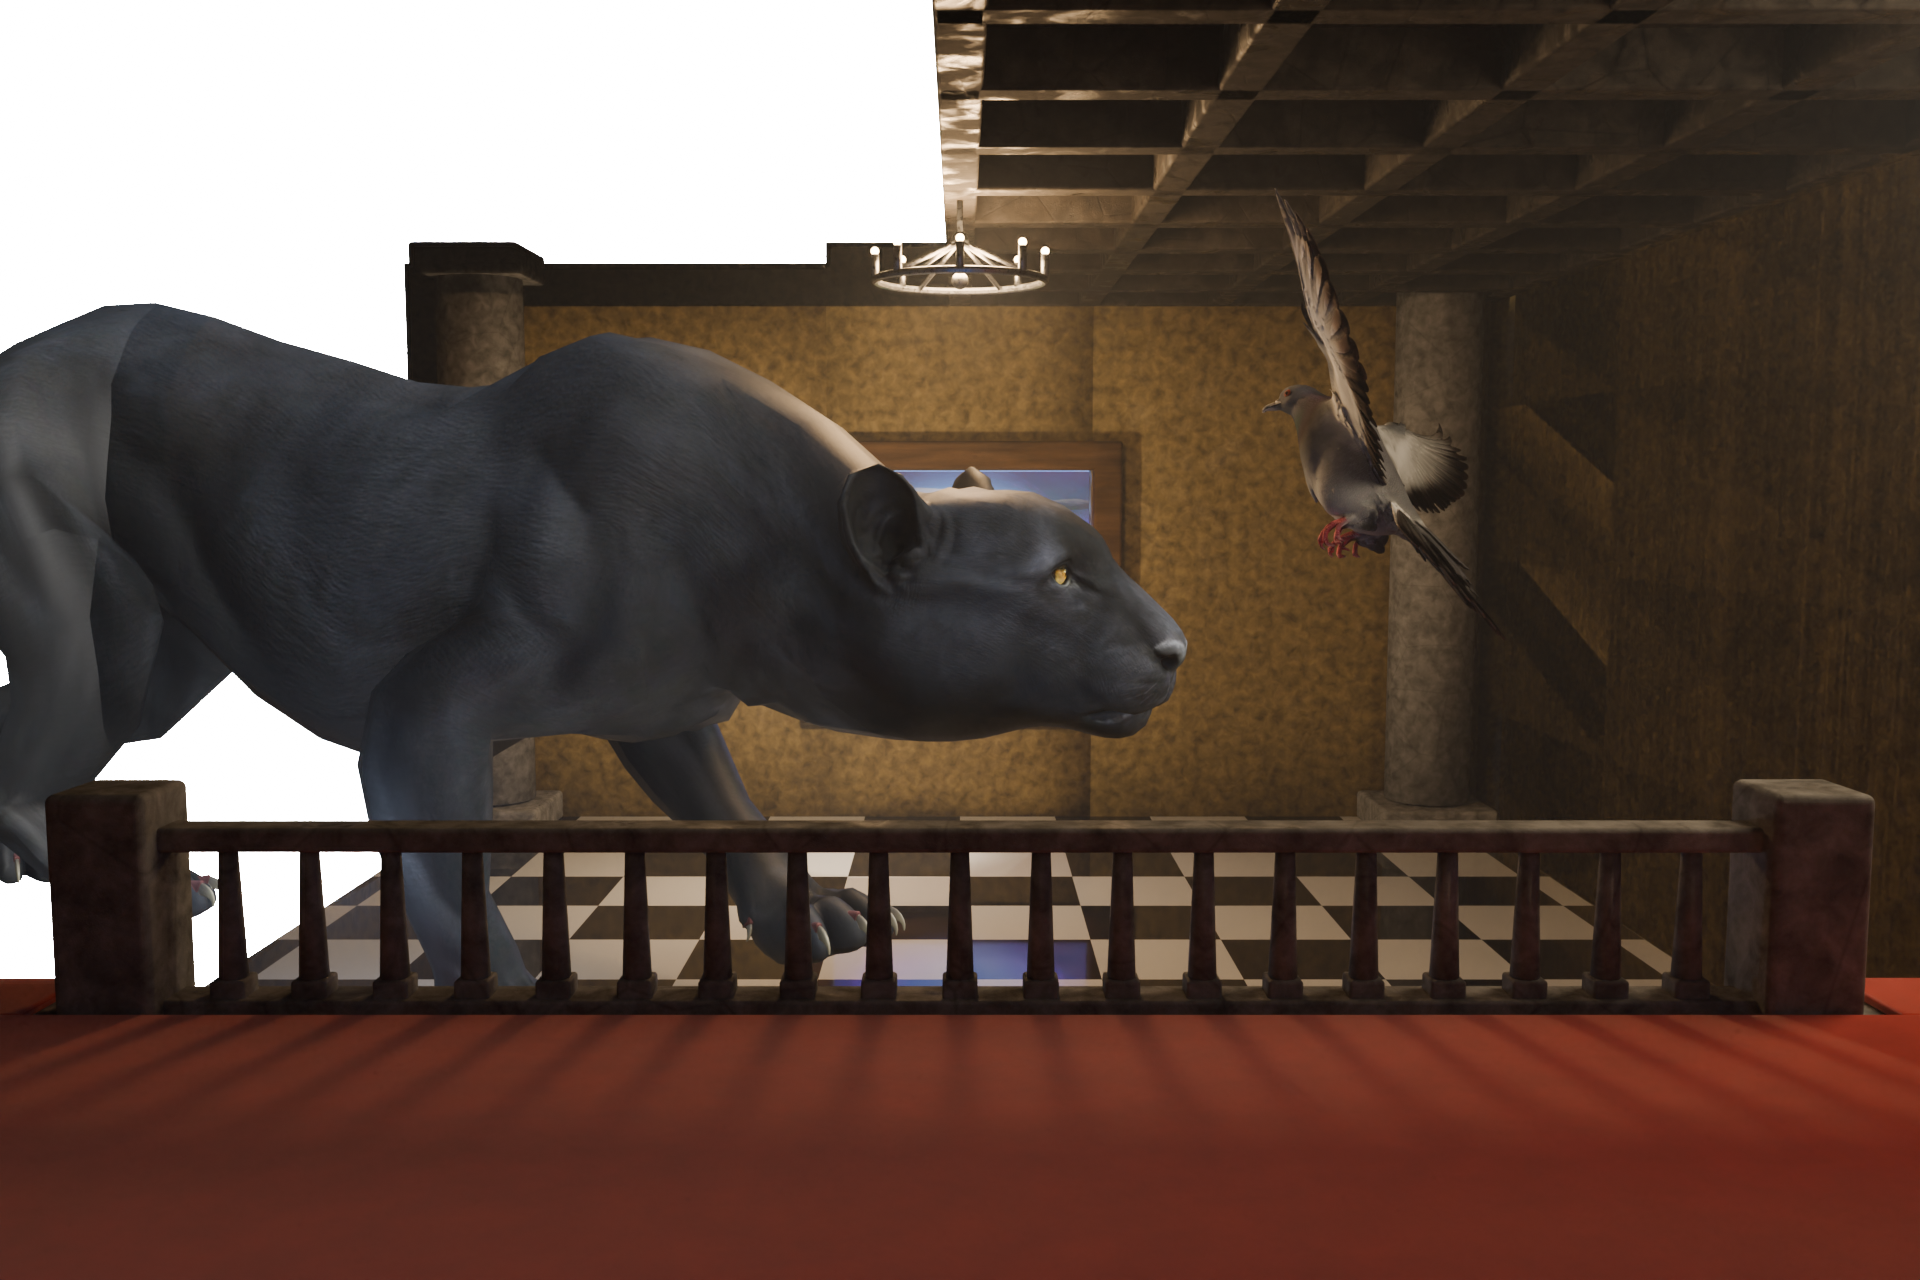
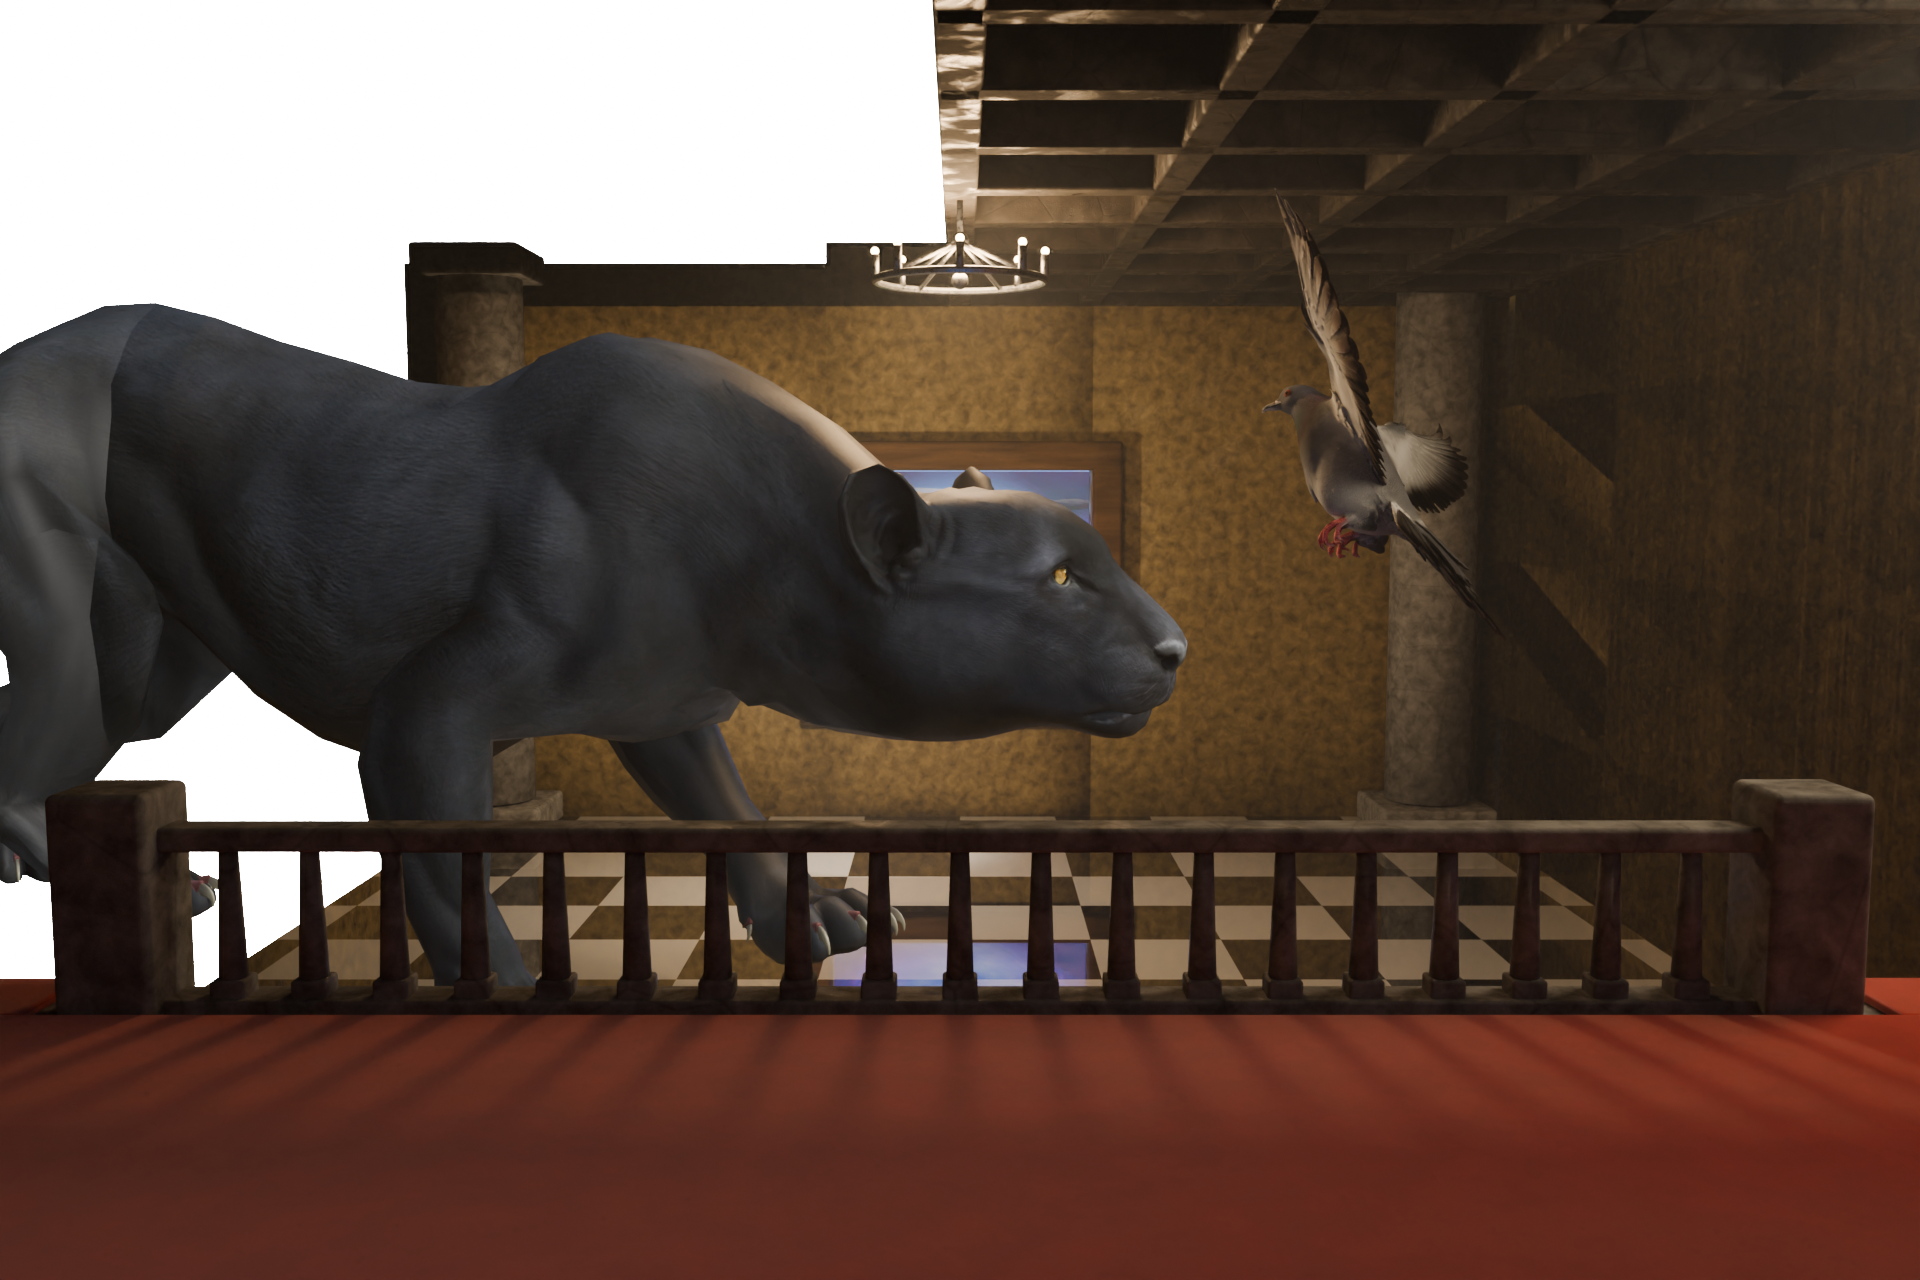
Wax the chequer, and take the blue lamp off the cat
Two findings, both from sweeps that mostly said no.

The floor: specular is not the lever. Raising Specular IOR Level from 0.5 to
1.0 takes a dielectric's face-on reflectance from 4 per cent to 8, which
sounds like doubling and measures as two points of luma on the dark tiles --
because nearly everything a floor reflects arrives at a grazing angle where
Fresnel is already near total, and no specular setting touches that.
Roughness moved nothing measurable either. A coat does: a second dielectric
layer over the first adds a whole extra lobe instead of scaling one, and it
takes the dark tiles 103 -> 111 on its own. So coat 1.0, and the roughness
down to 0.011 with the dull patches only twice as rough -- that part does not
change how much is reflected, only whether what is reflected has edges, which
is the half you can see.

The cat: the pale haunch was the cold 300 W point at (-6.8, 9.6). It was put
there to keep the near side of a 9 m cat off black, and the animal standing
there now is 27 m long with its hindquarters right against it, so it lit one
haunch and nothing else. Measured with it burning: hindquarters 123/123/125
against a flank of 120/117/116 -- brighter and bluer than the body it belongs
to. With it out: 115/113/113 and 117/113/111, the same colour. The near fill
added last round does what it was there for.

Both are cutaway-only. The other nine renders of this hall were signed off on
the floor and the lighting as they are.

diff --git a/art/blender/scenes.py b/art/blender/scenes.py
@@ -2318,7 +2318,19 @@ def painted_hall(path, mood="noon", view="balcony", cutaway=False):
     # and at 0.45 most of a deep red is a dark red, which is brown.
     carpet = look.heavy_cloth("Carpet", colour=(0.690, 0.0570, 0.0350, 1.0),
                               fade=0.80, seed=6)
-    tiles = look.checker("Chequer", square=0.95, roughness=0.021,
+    # Wetter in the cutaway, and only there -- the other nine renders of
+    # this hall were signed off on the floor as it is. Swept: specular alone
+    # is worth two points of luma on the dark tiles because what a floor
+    # reflects arrives at grazing angles that are already near total, and it
+    # is the coat that does the work, 103 to 111. Roughness down to 0.011
+    # with the dull patches only twice as rough is the other half of it --
+    # that does not change how much is reflected, it changes whether what is
+    # reflected has edges.
+    tiles = look.checker("Chequer", square=0.95,
+                         roughness=0.011 if cutaway else 0.021,
+                         specular=1.0 if cutaway else 0.5,
+                         unevenness=2.2 if cutaway else 4.5,
+                         coat=1.0 if cutaway else 0.0, coat_roughness=0.02,
                          dark=(0.009, 0.009, 0.011, 1.0),
                          pale=(0.520, 0.505, 0.480, 1.0))
     # Oak, and the grain runs along one axis rather than mottling in all
@@ -2867,8 +2879,18 @@ def painted_hall(path, mood="noon", view="balcony", cutaway=False):
     # is behind something rather than hanging on the wall by itself.
     rim = look.point_light((-2.6, 18.4, 4.60), energy=980, radius=0.30,
                            color=(1.0, 0.760, 0.480))
-    fill = look.point_light((-6.8, 9.6, 2.40), energy=300, radius=0.60,
-                            color=(0.600, 0.730, 1.000))
+    # The cold one only outside the cutaway. It was put at (-6.8, 9.6) to
+    # keep the near side of a 9 m cat off black, and the cat that stands
+    # there now is 27 m long with its hindquarters right beside it -- so it
+    # was lighting one haunch and nothing else, cold, against a body lit
+    # warm. Measured: with it burning the hindquarters read 123/123/125 and
+    # the flank 120/117/116, a hindquarter both brighter and bluer than the
+    # animal it belongs to. With it out they read 116/114/113 and 117/114/111
+    # -- the same colour, which is what was wanted. The near fill added since
+    # does the job it was there for.
+    fill = None if cutaway else look.point_light(
+        (-6.8, 9.6, 2.40), energy=300, radius=0.60,
+        color=(0.600, 0.730, 1.000))
     if cutaway:
         # Out of the reflections as well as out of the frame. Traced, the
         # white bead on the chequer at (1.35, 11.17) was the mirror image of
@@ -2877,8 +2899,7 @@ def painted_hall(path, mood="noon", view="balcony", cutaway=False):
         # about that, because a glossy ray is not a camera ray. This variant
         # is going on something printed, where a stray white dot on a black
         # tile reads as a fault in the printing rather than as a light.
-        for lamp in (rim, fill):
-            look.unseen(lamp, in_mirrors=False)
+        look.unseen(rim, in_mirrors=False)
 
     if cutaway:
         # The wall is a perfect barn door, which is the problem as well as

diff --git a/art/blender/look.py b/art/blender/look.py
@@ -1234,7 +1234,8 @@ def metal(name="Steel", colour=(0.400, 0.425, 0.455, 1.0), roughness=0.30,
 
 
 def checker(name="Checker", square=0.9, dark=(0.010, 0.010, 0.012, 1.0),
-            pale=(0.560, 0.545, 0.520, 1.0), roughness=0.07, seed=0.0):
+            pale=(0.560, 0.545, 0.520, 1.0), roughness=0.07, specular=0.5,
+            unevenness=4.5, coat=0.0, coat_roughness=0.02, seed=0.0):
     """Polished chequer, measured in metres rather than in object widths.
 
     World position, not object coordinates. A floor built as one big plane
@@ -1245,6 +1246,19 @@ def checker(name="Checker", square=0.9, dark=(0.010, 0.010, 0.012, 1.0),
     The polish is uneven on purpose. A single roughness across a whole floor
     gives one perfect mirror and reads as a rendering, where a real waxed
     floor has patches that catch the light and patches that do not.
+    `unevenness` is how much rougher those patches get -- the dull end of the
+    ramp is `roughness * unevenness`.
+
+    `coat` is the lever that actually makes a floor look wet, and it is worth
+    knowing why the obvious one does not. Raising `specular` from 0.5 to 1.0
+    takes a dielectric's face-on reflectance from 4 per cent to 8, which
+    sounds like doubling and measures, on this floor, as two points of luma:
+    almost everything you see reflected in a floor arrives at a grazing angle
+    where Fresnel is near total already, and no specular setting changes
+    that. A coat is a second dielectric layer over the first, so it adds a
+    whole extra lobe rather than scaling one -- measured, it takes the dark
+    tiles from 103 to 111 where every specular and roughness setting between
+    them moved nothing at all.
     """
     mat, tree, bsdf, _ = _new_material(name)
     where = tree.nodes.new("ShaderNodeNewGeometry")
@@ -1265,12 +1279,16 @@ def checker(name="Checker", square=0.9, dark=(0.010, 0.010, 0.012, 1.0),
     wear = _noise(tree, 0.7, detail=5.0, roughness=0.55, location=(-780, -260))
     tree.links.new(where.outputs["Position"], wear.inputs["Vector"])
     polish = _ramp(tree, [(0.35, (roughness,) * 3 + (1.0,)),
-                          (0.68, (min(1.0, roughness * 4.5),) * 3 + (1.0,))],
+                          (0.68, (min(1.0, roughness * unevenness),) * 3
+                           + (1.0,))],
                    location=(-520, -260))
     tree.links.new(out(wear, ("Fac", "Color")), polish.inputs["Fac"])
     tree.links.new(out(polish, "Color"), bsdf.inputs["Roughness"])
     sock(bsdf, "Metallic", 0.0)
-    sock(bsdf, ("Specular IOR Level", "Specular"), 0.5)
+    sock(bsdf, ("Specular IOR Level", "Specular"), specular)
+    if coat:
+        sock(bsdf, "Coat Weight", coat)
+        sock(bsdf, "Coat Roughness", coat_roughness)
     return mat
 
 
